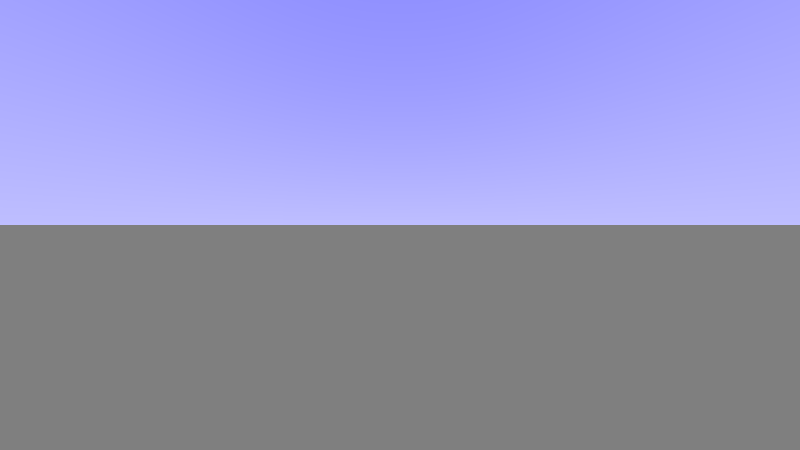
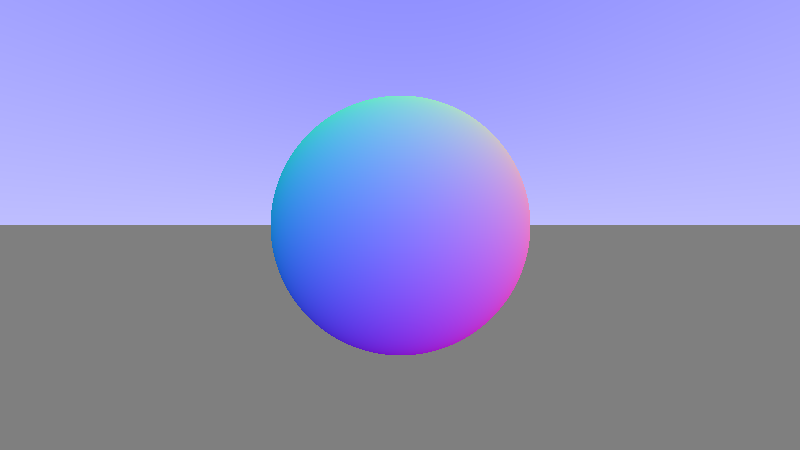
feat: ray sphere hit test

Changed region(s): [[0.3125, 0.1867, 0.6875, 0.8089]]

diff --git a/src/main.rs b/src/main.rs
@@ -90,6 +90,20 @@ impl Ray {
         Ray { origin, direction }
     }
 
+    pub fn hit_sphere(&self, center: Vec3, radius: f64) -> Option<f64> {
+        let oc = self.origin - center;
+        let a = self.direction.len_squared();
+        let half_b = oc.dot(self.direction);
+        let c = oc.len_squared() - radius * radius;
+        let discriminant = (half_b * half_b) - (a * c);
+
+        if discriminant > 0.0 {
+            Some(-half_b - discriminant.sqrt() / a)
+        } else {
+            None
+        }
+    }
+
     pub fn origin(&self) -> Vec3 {
         self.origin
     }
@@ -103,14 +117,25 @@ impl Ray {
     }
 
     pub fn color(&self) -> Rgb<u8> {
+        let sphere_center = Vec3::new(0.0, 0.0, -2.0);
+        let sphere_radius = 1.0;
+        let hit = self.hit_sphere(sphere_center, sphere_radius);
+
+        if hit.is_some() {
+            let n = (self.at(hit.unwrap()) - sphere_center).unit();
+            let map = |x| {((x / 2.0 + 0.5) * 255.0) as u8};
+
+            return Rgb([map(n.0), map(n.1), map(n.2)]);
+        }
+
         if self.direction.1 > 0.0 {
             let t = (1.0 - self.direction.1) * 0.5;
-            let t = (127.0 + t * 127f64) as u8;
+            let t = (127.0 + t * 127.0) as u8;
 
-            Rgb([t, t, 255])
-        } else {
-            Rgb([127, 127, 127])
-        }
+            return Rgb([t, t, 255]);
+        };
+
+        Rgb([127, 127, 127])
     }
 }
 
